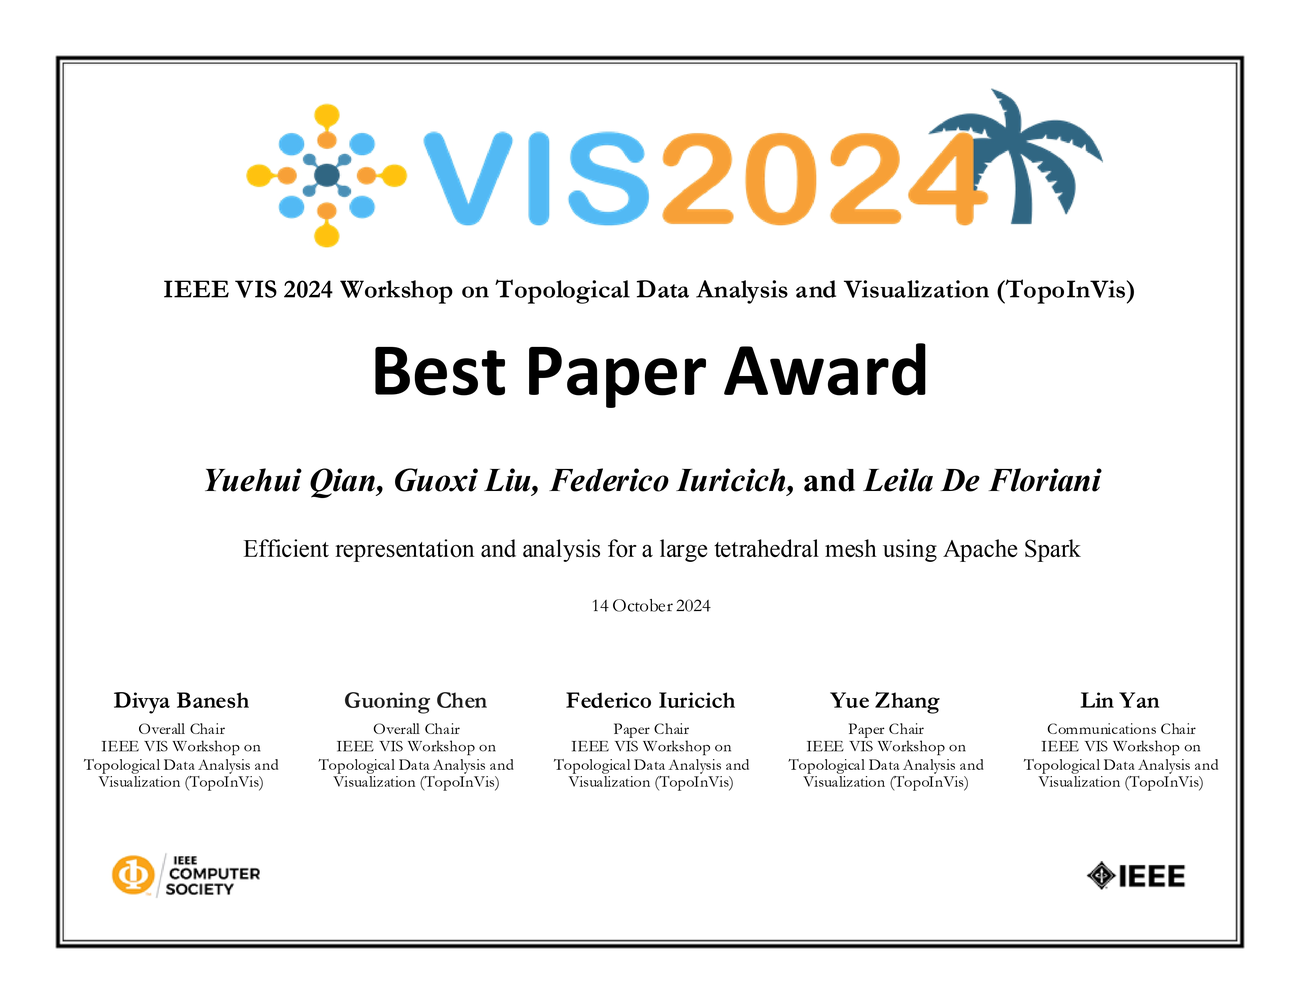
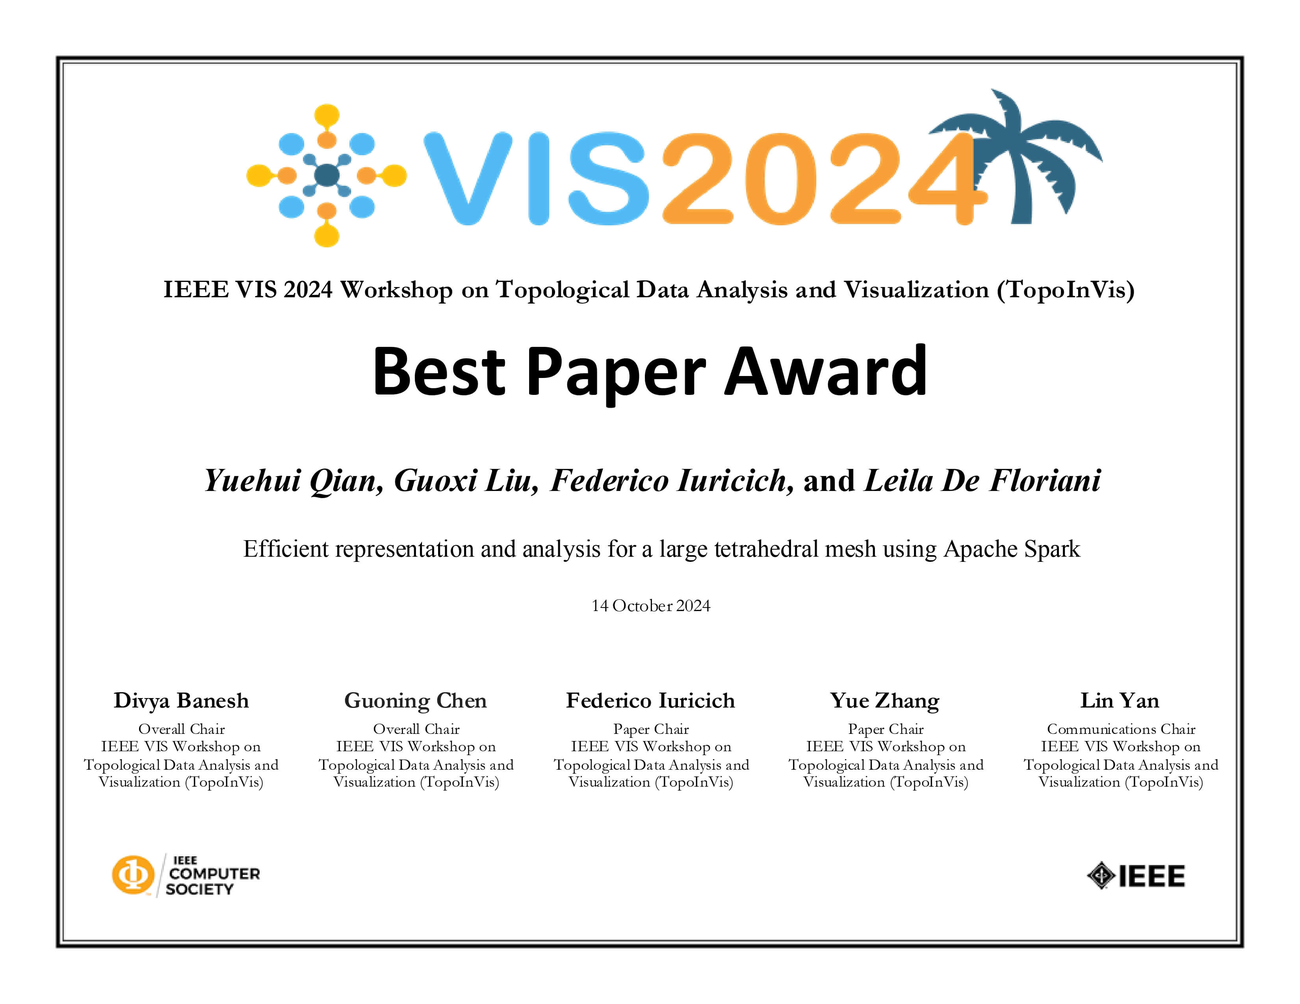
Update news in English

diff --git a/src/views/Home.vue b/src/views/Home.vue
@@ -10,6 +10,8 @@ export default {
       protectedEmail: "[my protected email]",
       showEmail: false,
       viewerCount: null,
+      showOverlay: false,
+      overlayImgSrc: null, // <-- add this line
       languageContent: {
         en: {
           name: "Guoxi Liu",
@@ -55,19 +57,27 @@ export default {
           news: [
             {
               date: "2025-07-27",
-              text: `Our paper, "<i>GALE: Leveraging Heterogeneous Systems for Efficient Unstructured Mesh Data Analysis</i>", has been accepted to <a href="https://ieeevis.org/year/2025/welcome" target="_blank"><img src="${require('@/assets/imgs/news/VIS-2025-logo.svg')}" alt="IEEE VIS 2025 Logo" style="height:1.65em;vertical-align:middle;margin-left:2px;" /></a>. Thanks to all the reviewers for their valuable feedback during the review process. See you in Vienna, Austria this November!`
+              text: `Our paper, "<a href="https://arxiv.org/abs/2507.15230" target="_blank" style="color:#DA171C;">GALE: Leveraging Heterogeneous Systems for Efficient Unstructured Mesh Data Analysis</a>", has been accepted to <a href="https://ieeevis.org/year/2025/welcome" target="_blank"><img src="${require('@/assets/imgs/news/VIS-2025-logo.svg')}" alt="IEEE VIS 2025 Logo" style="height:1.65em;vertical-align:middle;margin-left:2px;" /></a>. Thanks to all the reviewers for their valuable feedback during the review process. I plan to attend the conference in Vienna, Austria this November.`
             },
             {
               date: "2025-03-07",
-              text: "I have successfully defended my dissertation, “<a href='https://open.clemson.edu/all_dissertations/3872/' target='_blank' style='color:#F56600'><i>Advancing Efficiency of Unstructured Mesh Processing With Localized Data Structures</i></a>”! Special thanks to my advisory committee and everyone who has supported me throughout this journey.",
+              textBefore: "I have successfully defended my Ph.D. dissertation, <a href='https://open.clemson.edu/all_dissertations/3872/' target='_blank' style='color:#F56600'><i>Advancing Efficiency of Unstructured Mesh Processing With Localized Data Structures</i></a>. Special thanks to my advisory committee and everyone who has supported me ",
+              linkText: "throughout this journey",
+              img: require('@/assets/imgs/news/PhD-banquet.jpg'),
+              linkColor: "#F56600",
+              textAfter: ".",
             },
             {
               date: "2024-10-15",
-              text: `Our paper submitted to <i>IEEE Workshop on Topological Data Analysis and Visualization (TopoInVis)</i> at <a href="https://ieeevis.org/year/2024/welcome" target="_blank"><img src="${require('@/assets/imgs/news/VIS-2024-logo.png')}" alt="IEEE VIS 2024 Logo" style="height:1.5em;vertical-align:middle;margin-left:2px;" /></a> has been selected for the <strong>Best Paper Award</strong>. Congratulations to Yuehui! I feel very honored to be part of the team and contribute to the work.`,
+              textBefore: `Our paper submitted to <i>IEEE Workshop on Topological Data Analysis and Visualization (TopoInVis)</i> at <a href="https://ieeevis.org/year/2024/welcome" target="_blank"><img src="${require('@/assets/imgs/news/VIS-2024-logo.png')}" alt="IEEE VIS 2024 Logo" style="height:1.5em;vertical-align:middle;margin-left:2px;" /></a> has been selected for the `,
+              linkText: "<strong>Best Paper Award<strong>",
+              img: require('@/assets/imgs/news/TopoInVis-2024-best-paper-award.jpg'),
+              linkColor: "#52B9F5",
+              textAfter: ". Congratulations to Yuehui! I feel very honored to be part of the team and contribute to the work.",
             },
             {
               date: "2024-07-15",
-              text: "I have been selected for Doctoral Dissertation Completion Grant from Clemson University! I am looking forward to defending my dissertation later this year.",
+              text: `I have been selected for <a href="https://www.clemson.edu/research/division-of-research/resources/r-init-sub-pages/doctoral-dissertation-grant.html" target="_blank" style="color:#F56600;">Doctoral Dissertation Completion Grant</a> from Clemson University! I am looking forward to defending my dissertation later this year.`,
             },
             {
               date: "2024-04-30",
@@ -75,19 +85,19 @@ export default {
             },
             {
               date: "2023-07-15",
-              text: `Our paper, A Task-Parallel Approach for Localized Topological Data Structures, has been accepted to <a href="https://ieeevis.org/year/2023/welcome" target="_blank"><img src="${require('@/assets/imgs/news/VIS-2023-logo.svg')}" alt="IEEE VIS 2023 Logo" style="height:1.4em;vertical-align:middle;margin-left:2px;margin-right:2px;" /></a>. Thanks to all the reviewers for their thoughtful comments and feedback during the review process. See you in Melbourne, Australia this October!`,
+              text: `Our paper, "<a href="https://arxiv.org/abs/2308.15638" target="_blank" style="color:#38381D;">A Task-Parallel Approach for Localized Topological Data Structures</a>", has been accepted to <a href="https://ieeevis.org/year/2023/welcome" target="_blank"><img src="${require('@/assets/imgs/news/VIS-2023-logo.svg')}" alt="IEEE VIS 2023 Logo" style="height:1.4em;vertical-align:middle;margin-left:2px;margin-right:2px;" /></a>. Thanks to all the reviewers for their thoughtful comments and feedback during the review process. See you in Melbourne, Australia this October!`,
             },
             {
               date: "2022-04-28",
-              text: "Our paper, TopoEmbedding, A Web Tool for the Interactive Analysis of Persistent Homology, has been accepted to TDA Workshop at SIAM International Conference on Data Mining (SDM) 2022. Congratulations to Xueyi, and thanks to all the reviewers!",
+              text: `Our paper, <a href="https://arxiv.org/abs/2204.09783" target="_blank">"TopoEmbedding, A Web Tool for the Interactive Analysis of Persistent Homology"</a>, has been accepted to <a href="" target="_blank"><i>TDA Workshop at SIAM International Conference on Data Mining (SDM) 2022</i></a>. Congratulations to Xueyi, and thanks to all the reviewers!`,
             },
             {
               date: "2022-01-26",
-              text: "I have successfully passed my portfolio review, an alternative version of the qualification exam, and will proceed to the dissertation phase of my doctoral study.",
+              text: `I have successfully passed my <a href="https://www.clemson.edu/cecas/departments/computing/academics/graduates/degrees/phd-cs.html#portfolioanddissertation" target="_blank">portfolio review</a>, which serves as the Comprehensive Examination in the School of Computing. I will proceed to the dissertation phase of my doctoral studies.`,
             },
             {
               date: "2022-01-05",
-              text: "Our memory-efficient topological data structure, TopoCluster, has been officially integrated in the Topology Toolkit. Please check out this page on how to invoke the CompactTriangulation class in TTK. Thanks to Dr. Julien Tierny and Dr. Pierre Guillou for their valuable help throughout the whole integration process.",
+              text: `Our memory-efficient topological data structure, TopoCluster, has been officially integrated into the <a href="https://topology-tool-kit.github.io/" target="_blank"><img src="${require('@/assets/imgs/ttk-logo.png')}" alt="Topology Toolkit Logo" style="height:1.3em;vertical-align:middle;margin-left:2px;margin-right:2px;" />Topology Toolkit</a>. Please check out <a href="https://topology-tool-kit.github.io/examples/compactTriangulation/" target="_blank">this example page</a> on how to invoke the CompactTriangulation class in TTK. Thanks to Dr. Julien Tierny and Dr. Pierre Guillou for their valuable help throughout the whole integration process.`,
             },
             {
               date: "2021-11-09",
@@ -95,11 +105,11 @@ export default {
             },
             {
               date: "2021-10-15",
-              text: "My first paper, TopoCluster: A Localized Data Structure for Topology-based Visualization, has been accepted for publication in IEEE Transactions on Visualization and Computer Graphics (TVCG). Thanks to all the collaborators and reviewers for their valuable contributions and efforts."
+              text: `My first paper, "<a href="https://doi.org/10.1109/TVCG.2021.3121229" target="_blank">TopoCluster: A Localized Data Structure for Topology-based Visualization</a>", has been accepted for publication in <i>IEEE Transactions on Visualization and Computer Graphics (TVCG)</i>. Thanks to all the collaborators and reviewers for their valuable contributions and efforts.`
             },
             {
               date: "2021-07-16",
-              text: "Our project submitted to ICLR Computational Geometry & Topology Challenge 2021 has been included in the final summary white paper. For more details, please visit this link. Even though our project did not secure a top-three ranking, participating in this event was a highly enjoyable experience. Thanks to the organizers for providing such a creative and welcoming environment."
+              text: `Our project submitted to <a href="https://gt-rl.github.io/2021/challenge.html" target="_blank"><i>ICLR Computational Geometry & Topology Challenge 2021</i></a> has been included in the final summary white paper. For more details, please visit <a href="https://arxiv.org/abs/2108.09810" target="_blank">this link</a>. Even though our project did not secure a top-three ranking, participating in this event was a highly enjoyable experience. Thanks to the organizers for providing such a creative and welcoming environment.`
             },
             {
               date: "2018-08-25",
@@ -142,53 +152,72 @@ export default {
               { type: "img", src: require('@/assets/imgs/mizzou-logo.png'), alt: "密苏里大学校徽", color: "#F1B82E", text: "密苏里大学哥伦比亚分校（R1大学）", url: "https://missouri.edu/" },
               "数字生物实验室访学。"
             ],
+            [
+              "中文内容可能会比英文内容滞后或缺失，敬请谅解。",
+            ],
           ],
           newsLabel: "更新",
           news: [
             {
-              date: "2025-03-07",
-              text: "我已成功完成博士论文答辩，论文题目为“Advancing Efficiency of Unstructured Mesh Processing With Localized Data Structures”！特别感谢我的指导委员会以及在整个过程中支持我的每一位朋友。",
+              date: "2025-07-27",
+              text: `我们的论文 "<a href="https://arxiv.org/abs/2507.15230" target="_blank" style="color:#DA171C;">GALE: Leveraging Heterogeneous Systems for Efficient Unstructured Mesh Data Analysis</a>" 已被 <a href="https://ieeevis.org/year/2025/welcome" target="_blank"><img src="${require('@/assets/imgs/news/VIS-2025-logo.svg')}" alt="IEEE VIS 2025 Logo" style="height:1.65em;vertical-align:middle;margin-left:2px;" /></a> 录用。感谢所有评审在审稿过程中提出的宝贵意见。计划今年11月前往奥地利维也纳参会。`
             },
             {
-              date: "2024-10-08",
-              text: "我们提交至IEEE VIS 2024的IEEE Workshop on Topological Data Analysis and Visualization (TopoInVis)的论文荣获最佳论文奖。祝贺Yuehui！很荣幸能作为团队成员参与这项工作。",
+              date: "2025-03-07",
+              textBefore: `我已顺利完成博士论文答辩，论文题目为 <a href='https://open.clemson.edu/all_dissertations/3872/' target='_blank' style='color:#F56600'><i>Advancing Efficiency of Unstructured Mesh Processing With Localized Data Structures</i></a>。特别感谢我的导师委员会以及所有支持我的人 `,
+              linkText: "在整个旅程中的帮助",
+              img: require('@/assets/imgs/news/PhD-banquet.jpg'),
+              linkColor: "#F56600",
+              textAfter: "。",
+            },
+            {
+              date: "2024-10-15",
+              textBefore: `我们提交至 <i>IEEE Workshop on Topological Data Analysis and Visualization (TopoInVis)</i> 的论文在 <a href="https://ieeevis.org/year/2024/welcome" target="_blank"><img src="${require('@/assets/imgs/news/VIS-2024-logo.png')}" alt="IEEE VIS 2024 Logo" style="height:1.5em;vertical-align:middle;margin-left:2px;" /></a> 获得了 `,
+              linkText: "<strong>最佳论文奖<strong>",
+              img: require('@/assets/imgs/news/TopoInVis-2024-best-paper-award.jpg'),
+              linkColor: "#52B9F5",
+              textAfter: "。祝贺岳辉！很荣幸能参与团队并做出贡献。",
             },
             {
               date: "2024-07-15",
-              text: "我获得了克莱姆森大学博士论文完成奖学金！期待11月顺利答辩。",
+              text: `我获得了克莱姆森大学 <a href="https://www.clemson.edu/research/division-of-research/resources/r-init-sub-pages/doctoral-dissertation-grant.html" target="_blank" style="color:#F56600;">博士论文完成资助</a>！期待今年晚些时候完成答辩。`,
             },
             {
               date: "2024-04-30",
-              text: "我已顺利通过博士论文开题答辩！感谢我的论文委员会！",
-            },
-            {
-              date: "2024-06-01",
-              text: "在IEEE VIS 2024会议上展示了我们的最新论文。",
-            },
-            {
-              date: "2024-04-15",
-              text: "以博士后身份加入俄亥俄州立大学。",
-            },
-            {
-              date: "2023-12-10",
-              text: "在克莱姆森大学成功完成博士论文答辩。",
+              text: "顺利通过博士论文开题报告！感谢我的答辩委员会！",
             },
             {
               date: "2023-07-15",
-              text: "我们的论文《A Task-Parallel Approach for Localized Topological Data Structures》被IEEE VIS 2023录用。感谢所有评审在评审过程中提出的宝贵意见和反馈。10月墨尔本见！",
+              text: `我们的论文 "<a href="https://arxiv.org/abs/2308.15638" target="_blank" style="color:#38381D;">A Task-Parallel Approach for Localized Topological Data Structures</a>" 已被 <a href="https://ieeevis.org/year/2023/welcome" target="_blank"><img src="${require('@/assets/imgs/news/VIS-2023-logo.svg')}" alt="IEEE VIS 2023 Logo" style="height:1.4em;vertical-align:middle;margin-left:2px;margin-right:2px;" /></a> 录用。感谢所有评审的意见和建议。10月墨尔本见！`,
             },
             {
               date: "2022-04-28",
-              text: "我们的论文《TopoEmbedding, A Web Tool for the Interactive Analysis of Persistent Homology》被SIAM国际数据挖掘大会（SDM 2022）TDA Workshop录用。祝贺Xueyi，也感谢所有评审！",
+              text: `我们的论文 <a href="https://arxiv.org/abs/2204.09783" target="_blank">"TopoEmbedding, A Web Tool for the Interactive Analysis of Persistent Homology"</a> 已被 <a href="" target="_blank"><i>TDA Workshop at SIAM International Conference on Data Mining (SDM) 2022</i></a> 录用。祝贺雪怡，感谢所有评审！`,
             },
             {
               date: "2022-01-26",
-              text: "我已顺利通过博士资格考试（Portfolio Review），正式进入论文阶段。",
+              text: `顺利通过<a href="https://www.clemson.edu/cecas/departments/computing/academics/graduates/degrees/phd-cs.html#portfolioanddissertation" target="_blank">portfolio review</a>（博士资格考试），正式进入论文阶段。`,
             },
             {
               date: "2022-01-05",
-              text: "我们高效的拓扑数据结构TopoCluster已正式集成到Topology Toolkit (TTK) 中。欢迎访问TTK页面了解如何调用CompactTriangulation类。感谢Dr. Julien Tierny和Dr. Pierre Guillou在整个集成过程中的宝贵帮助。",
+              text: `我们提出的高效拓扑数据结构 TopoCluster 已正式集成进 <a href="https://topology-tool-kit.github.io/" target="_blank"><img src="${require('@/assets/imgs/ttk-logo.png')}" alt="Topology Toolkit Logo" style="height:1.3em;vertical-align:middle;margin-left:2px;margin-right:2px;" />Topology Toolkit</a>。更多用法请见 <a href="https://topology-tool-kit.github.io/examples/compactTriangulation/" target="_blank">此示例页面</a>。感谢 Dr. Julien Tierny 和 Dr. Pierre Guillou 的大力帮助。`,
             },
+            {
+              date: "2021-11-09",
+              text: `我的 TVCG 论文被安排在 <a href="https://ieeevis.org/year/2022/welcome" target="_blank"><img src="${require('@/assets/imgs/news/VIS-2022-logo.svg')}" alt="IEEE VIS 2022 Logo" style="height:1.35em;vertical-align:middle;margin-left:2px;margin-right:2px;" /></a> 会议上报告。感谢沈汉威老师的推荐，明年俄克拉荷马城见！`
+            },
+            {
+              date: "2021-10-15",
+              text: `我的第一篇论文 "<a href="https://doi.org/10.1109/TVCG.2021.3121229" target="_blank">TopoCluster: A Localized Data Structure for Topology-based Visualization</a>" 已被 <i>IEEE Transactions on Visualization and Computer Graphics (TVCG)</i> 录用。感谢所有合作者和评审的贡献与努力。`
+            },
+            {
+              date: "2021-07-16",
+              text: `我们<a href="https://gt-rl.github.io/2021/challenge.html" target="_blank"><i>ICLR Computational Geometry & Topology Challenge 2021</i></a>提交的项目被收录进最终成稿白皮书。详情请见<a href="https://arxiv.org/abs/2108.09810" target="_blank">此链接</a>。虽然未获前三名，但参与过程非常有趣，感谢主办方提供了如此有创意和包容的环境。`
+            },
+            {
+              date: "2018-08-25",
+              text: "我即将开始在克莱姆森大学攻读博士学位！"
+            }
           ]
         }
       },
@@ -219,6 +248,11 @@ export default {
   methods: {
     revealEmail() { this.showEmail = true; },
     hideEmail() { this.showEmail = false; },
+    openOverlay(imgPath) { 
+      this.overlayImgSrc = imgPath; 
+      this.showOverlay = true; 
+    },
+    closeOverlay() { this.showOverlay = false; },
   },
 };
 </script>
@@ -354,14 +388,44 @@ export default {
                 <tr v-for="(item, index) in lang.news" :key="`news-${index}`">
                   <td class="align-middle text-center">{{ item.date }}</td>
                   <td class="align-middle">
-                    <span v-html="item.text"></span>
+                    <span v-if="item.img">
+                      <span v-html="item.textBefore"></span>
+                      <a
+                        href="#"
+                        @click.prevent="openOverlay(item.img)"
+                        :style="{ color: item.linkColor || 'inherit', textDecoration: 'underline', cursor: 'pointer' }"
+                      >
+                        <span v-html="item.linkText"></span>
+                      </a>
+                      <span v-html="item.textAfter"></span>
+                    </span>
+                    <span v-else v-html="item.text"></span>
                   </td>
                 </tr>
               </tbody>
             </table>
           </div>
 
-          Test overlay
+          <div
+            v-if="showOverlay"
+            class="overlay-backdrop"
+            @click.self="closeOverlay"
+          >
+            <div class="overlay-modal-content">
+              <button
+                type="button"
+                class="btn-close"
+                aria-label="Close"
+                @click="closeOverlay"
+                style="position:absolute;top:10px;right:10px;z-index:2;"
+              ></button>
+              <img
+                :src="overlayImgSrc"
+                alt="Overlay Image"
+                class="overlay-img"
+              />
+            </div>
+          </div>
 
           <!-- <div class="card-header mt-3">
             <h2>

diff --git a/src/App.vue b/src/App.vue
@@ -1,6 +1,10 @@
 <script>
 import { globalState } from '@/globalState';
 
+const copilotSVG = `<span style="display:inline-block;width:1em;height:1em;">
+  <svg viewBox="0 0 512 512" xmlns="http://www.w3.org/2000/svg" fill-rule="evenodd" clip-rule="evenodd" stroke-linejoin="round" stroke-miterlimit="2"><path d="M181.33 266.143c0-11.497 9.32-20.818 20.818-20.818 11.498 0 20.819 9.321 20.819 20.818v38.373c0 11.497-9.321 20.818-20.819 20.818-11.497 0-20.818-9.32-20.818-20.818v-38.373zM308.807 245.325c-11.477 0-20.798 9.321-20.798 20.818v38.373c0 11.497 9.32 20.818 20.798 20.818 11.497 0 20.818-9.32 20.818-20.818v-38.373c0-11.497-9.32-20.818-20.818-20.818z" fill-rule="nonzero"/><path d="M512.002 246.393v57.384c-.02 7.411-3.696 14.638-9.67 19.011C431.767 374.444 344.695 416 256 416c-98.138 0-196.379-56.542-246.33-93.21-5.975-4.374-9.65-11.6-9.671-19.012v-57.384a35.347 35.347 0 016.857-20.922l15.583-21.085c8.336-11.312 20.757-14.31 33.98-14.31 4.988-56.953 16.794-97.604 45.024-127.354C155.194 5.77 226.56 0 256 0c29.441 0 100.807 5.77 154.557 62.722 28.19 29.75 40.036 70.401 45.025 127.354 13.263 0 25.602 2.936 33.958 14.31l15.583 21.127c4.476 6.077 6.878 13.345 6.878 20.88zm-97.666-26.075c-.677-13.058-11.292-18.19-22.338-21.824-11.64 7.309-25.848 10.183-39.46 10.183-14.454 0-41.432-3.47-63.872-25.869-5.667-5.625-9.527-14.454-12.155-24.247a212.902 212.902 0 00-20.469-1.088c-6.098 0-13.099.349-20.551 1.088-2.628 9.793-6.509 18.622-12.155 24.247-22.4 22.4-49.418 25.87-63.872 25.87-13.612 0-27.86-2.855-39.501-10.184-11.005 3.613-21.558 8.828-22.277 21.824-1.17 24.555-1.272 49.11-1.375 73.645-.041 12.318-.082 24.658-.288 36.976.062 7.166 4.374 13.818 10.882 16.774 52.97 24.124 103.045 36.278 149.137 36.278 46.01 0 96.085-12.154 149.014-36.278 6.508-2.956 10.84-9.608 10.881-16.774.637-36.832.124-73.809-1.642-110.62h.041zM107.521 168.97c8.643 8.623 24.966 14.392 42.56 14.392 13.448 0 39.03-2.874 60.156-24.329 9.28-8.951 15.05-31.35 14.413-54.079-.657-18.231-5.769-33.28-13.448-39.665-8.315-7.371-27.203-10.574-48.33-8.644-22.399 2.238-41.267 9.588-50.875 19.833-20.798 22.728-16.323 80.317-4.476 92.492zm130.556-56.008c.637 3.51.965 7.35 1.273 11.517 0 2.875 0 5.77-.308 8.952 6.406-.636 11.847-.636 16.959-.636s10.553 0 16.959.636c-.329-3.182-.329-6.077-.329-8.952.329-4.167.657-8.007 1.294-11.517-6.735-.637-12.812-.965-17.924-.965s-11.21.328-17.924.965zm49.275-8.008c-.637 22.728 5.133 45.128 14.413 54.08 21.105 21.454 46.708 24.328 60.155 24.328 17.596 0 33.918-5.769 42.561-14.392 11.847-12.175 16.322-69.764-4.476-92.492-9.608-10.245-28.476-17.595-50.875-19.833-21.127-1.93-40.015 1.273-48.33 8.644-7.679 6.385-12.791 21.434-13.448 39.665z"/></svg>
+</span>`;
+
 export default {
   name: 'App',
   data() {
@@ -14,6 +18,17 @@ export default {
           switchLanguage: 'Languages',
           chinese: '中文🇨🇳',
           english: 'English🇺🇸',
+          footer: `This website is built with 
+            <a href="https://getbootstrap.com/" target="_blank">
+              <i class="fab fa-bootstrap" style="color:#7952b3;"></i> Bootstrap
+            </a>, 
+            <a href="https://vuejs.org/" target="_blank">
+              <i class="fab fa-vuejs" style="color:#42b883;"></i>Vue.js
+            </a>, and 
+            <a href="https://github.com/features/copilot" target="_blank">
+              ${copilotSVG} GitHub Copilot
+            </a>.<br>
+            The views expressed here do not necessarily represent the views of The Ohio State University or other institutes.`
         },
         zh: {
           brand: '<strong>刘</strong>国玺',
@@ -23,6 +38,17 @@ export default {
           switchLanguage: '切换语言',
           chinese: '中文🇨🇳',
           english: 'English🇺🇸',
+          footer: `本网站基于 
+            <a href="https://getbootstrap.com/" target="_blank">
+              <i class="fab fa-bootstrap" style="color:#7952b3;"></i> Bootstrap
+            </a>、
+            <a href="https://vuejs.org/" target="_blank">
+              <i class="fab fa-vuejs" style="color:#42b883;"></i>Vue.js
+            </a> 和 
+            <a href="https://github.com/features/copilot" target="_blank">
+              ${copilotSVG} GitHub Copilot
+            </a> 构建。<br>
+            本网站所表达的观点不代表俄亥俄州立大学以及其他学术机构的立场。`
         }
       }
     }
@@ -114,6 +140,13 @@ export default {
         <component :is="Component" :key="language" />
       </transition>
     </router-view>
+
+    <!-- Footer -->
+    <footer class="footer mt-auto py-3 bg-light border-top">
+      <div class="container text-center small text-muted">
+        <span v-html="lang.footer"></span>
+      </div>
+    </footer>
   </div>
 </template>
 

diff --git a/src/assets/styles.css b/src/assets/styles.css
@@ -74,11 +74,35 @@ body {
 
 .school-link-text {
   align-items: center;
-  text-decoration: none;
   color: inherit;
 }
 .school-link-img {
   height: 20px;
   margin-right: 2px;
   vertical-align: bottom;
+}
+
+.overlay-backdrop {
+  position: fixed;
+  top: 0; left: 0; right: 0; bottom: 0;
+  background: rgba(0,0,0,0.6);
+  display: flex;
+  align-items: center;
+  justify-content: center;
+  z-index: 2000;
+}
+.overlay-modal-content {
+  background: #fff;
+  padding: 0;
+  border-radius: 12px;
+  box-shadow: 0 2px 16px rgba(0,0,0,0.2);
+  position: relative;
+}
+.overlay-img {
+  max-width: 100%;
+  max-height: 80vh;
+  width: 100%;
+  height: 100%;
+  object-fit: contain;
+  display: block;
 }
